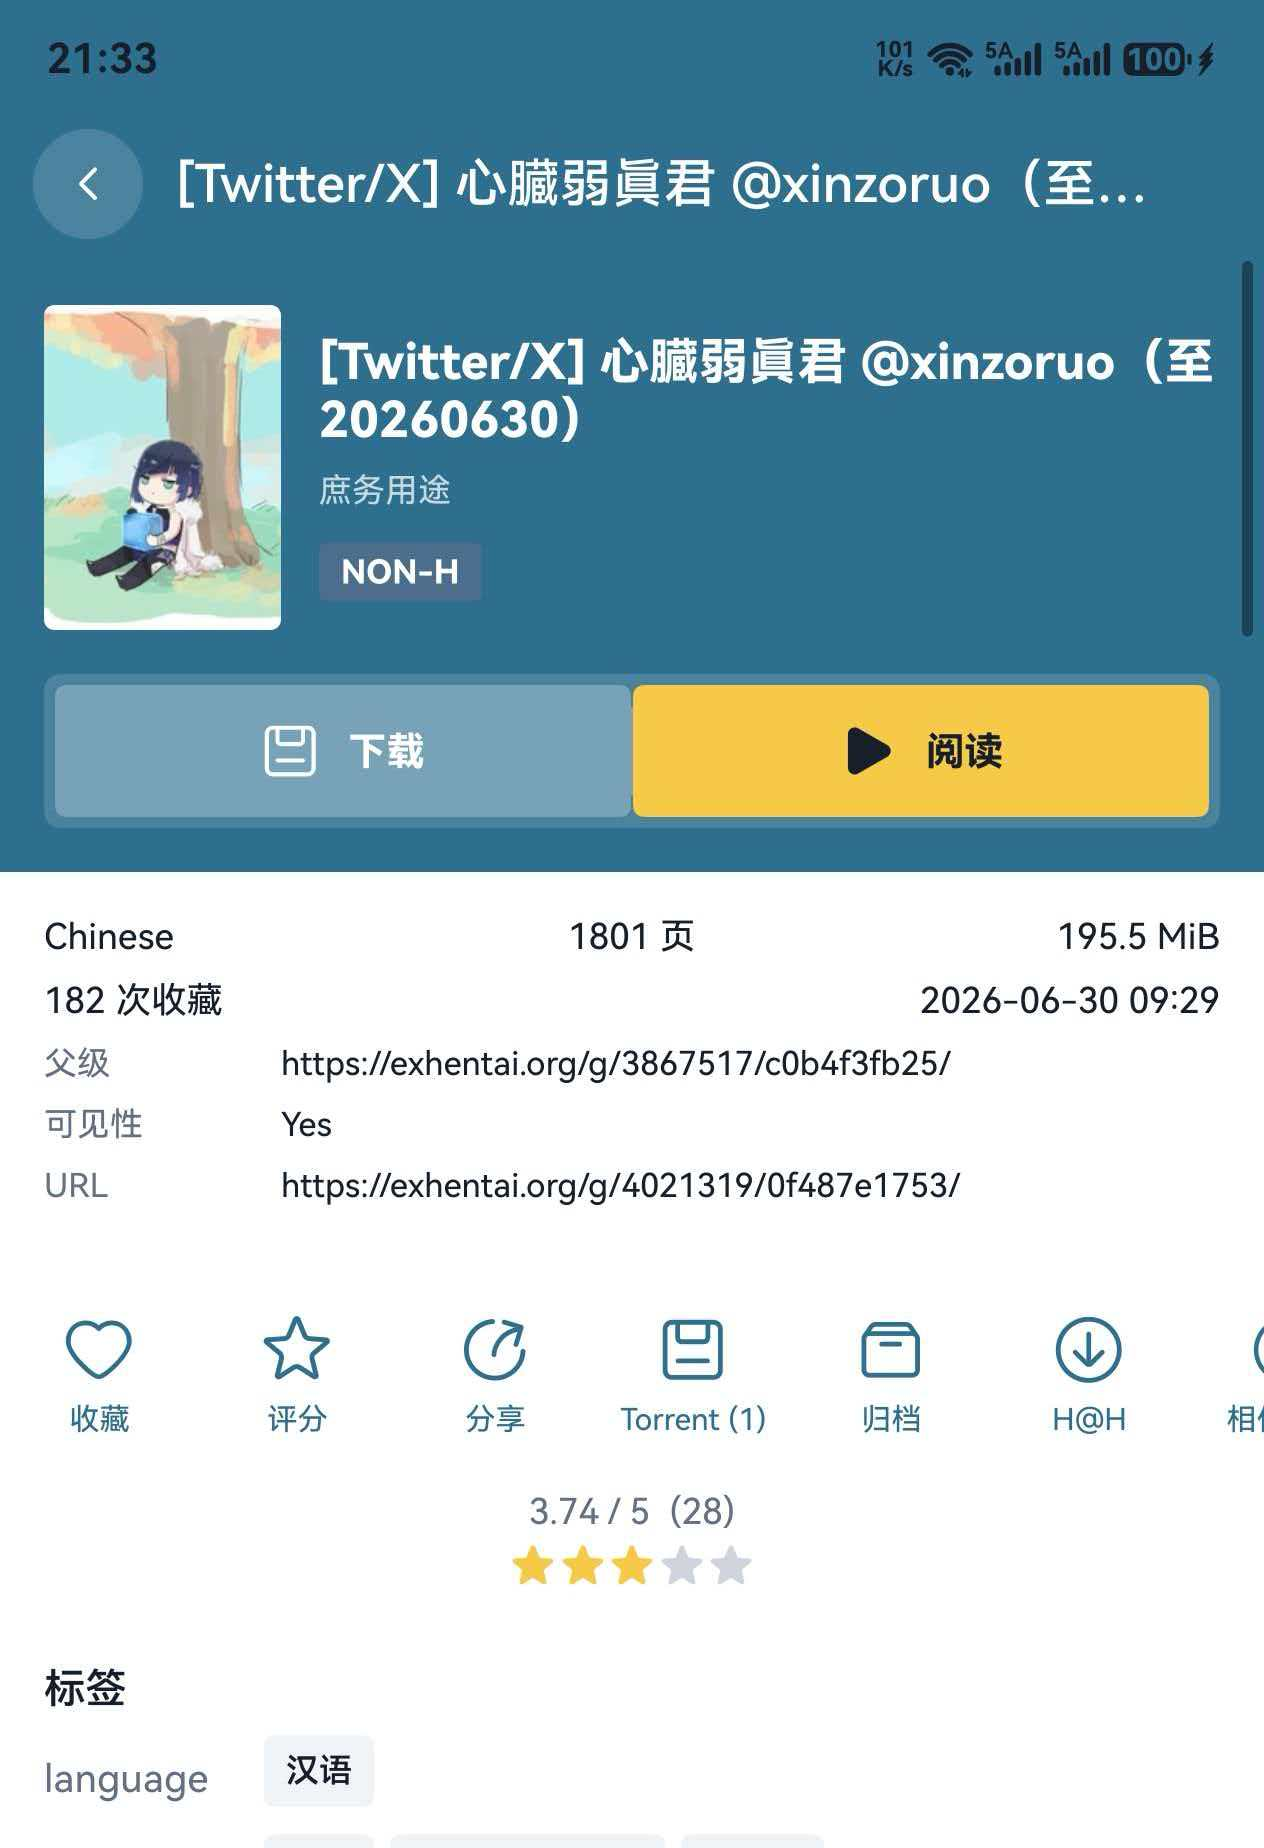
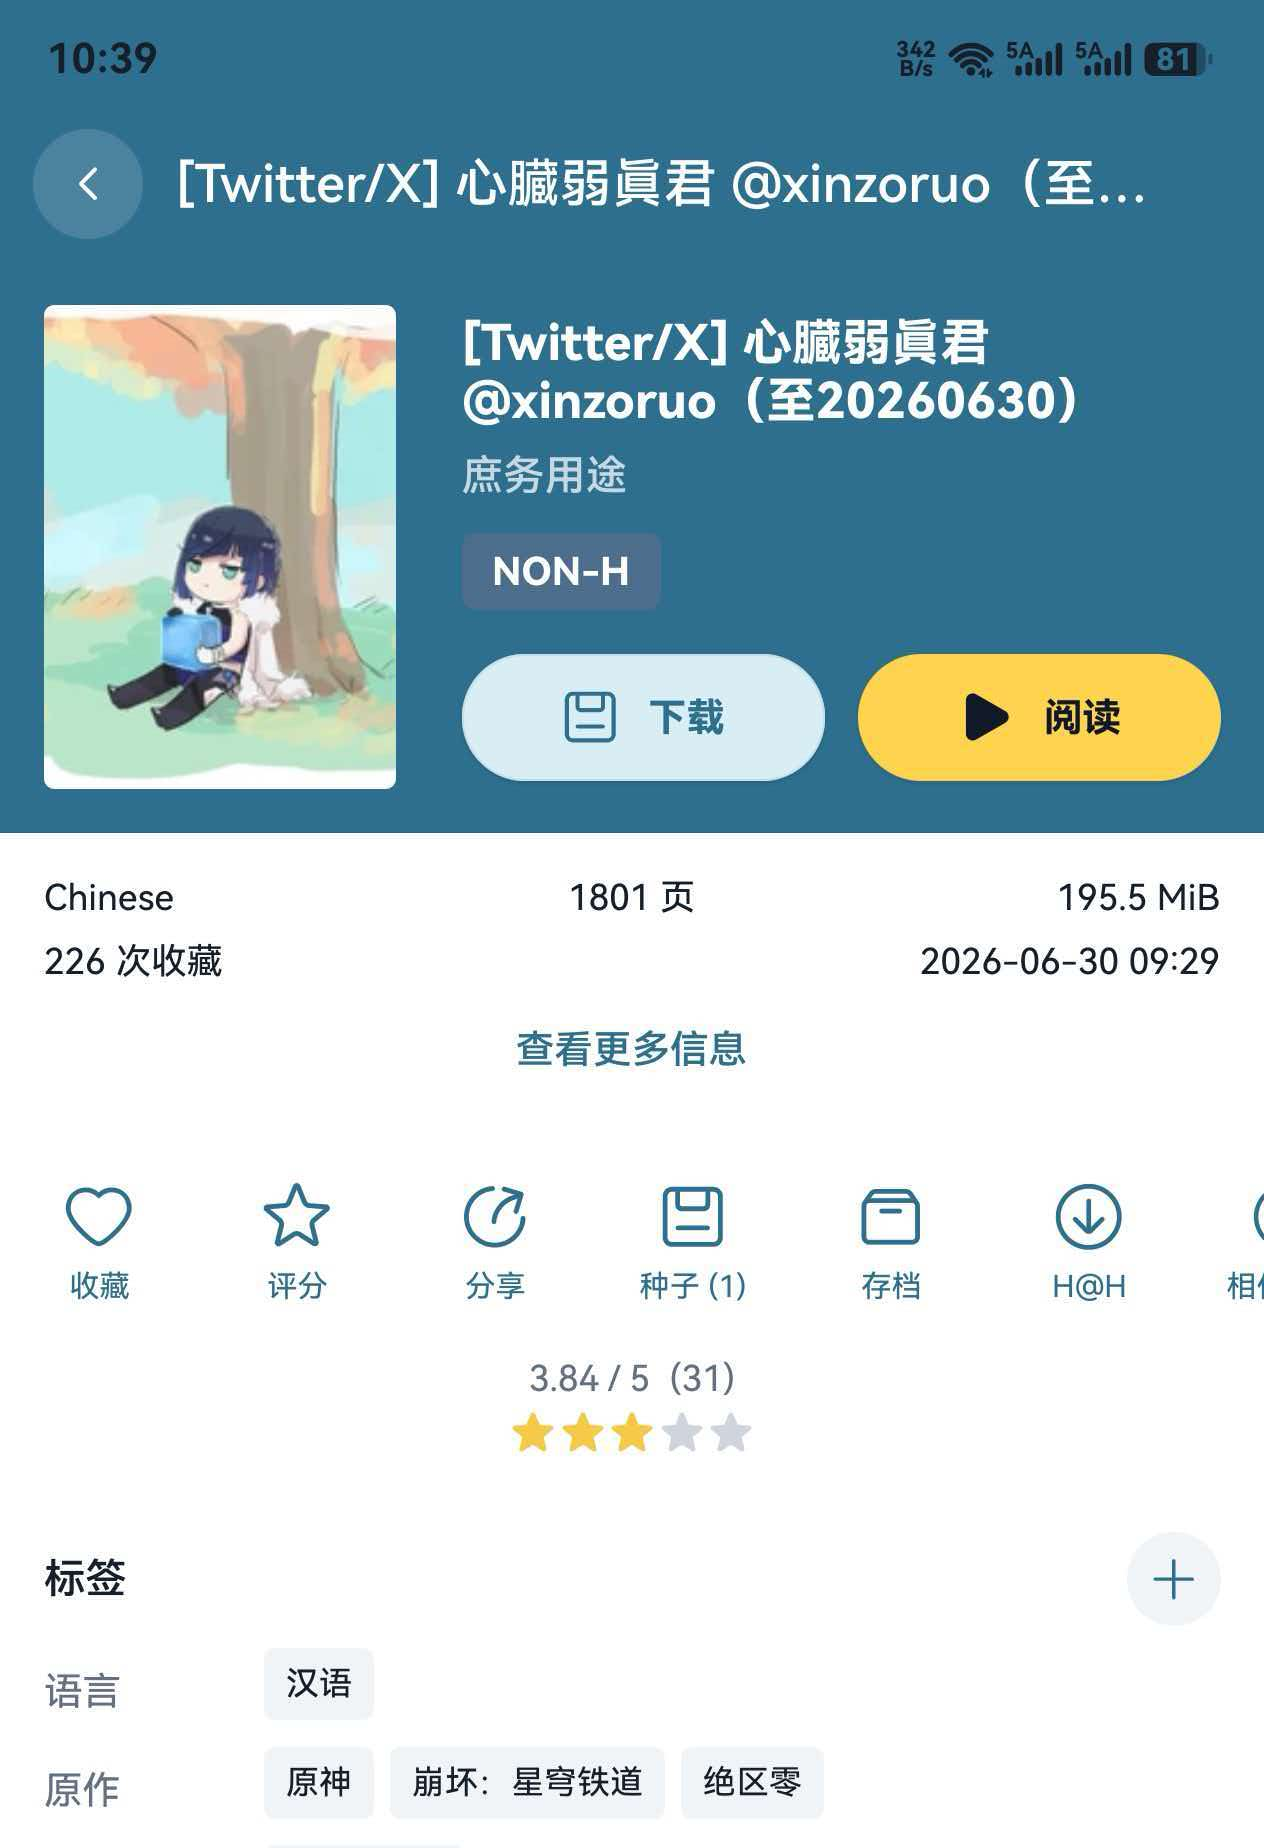
发布 0.5.2 并完善项目说明

diff --git a/README.md b/README.md
@@ -4,7 +4,7 @@
   <img src="entry/src/main/resources/base/media/app_icon.png" width="120" alt="EhViewer HarmonyOS app icon" />
 </p>
 
-这是 [Ehviewer_CN_SXJ](https://github.com/xiaojieonly/Ehviewer_CN_SXJ) 的 HarmonyOS 移植版本，目标是在鸿蒙设备上使用接近原应用的浏览、搜索、阅读、下载和设置体验。目前仍在快速迭代中，欢迎通过 Issue 反馈问题、日志和复现步骤，也欢迎提新功能需求。
+这是 [Ehviewer_CN_SXJ](https://github.com/xiaojieonly/Ehviewer_CN_SXJ) 的 HarmonyOS 移植版本，目标是在鸿蒙设备上提供接近原应用的浏览、搜索、阅读、下载和设置体验。欢迎通过 Issue 反馈问题、日志和复现步骤，也欢迎提出新功能需求。
 
 ## 界面预览
 
@@ -36,10 +36,12 @@
   <tr>
     <td><img src="docs/images/reader-settings.jpg" alt="阅读器设置" width="220" /></td>
     <td><img src="docs/images/gallery-detail-tag-vote.jpg" alt="标签编辑与投票" width="220" /></td>
+    <td><img src="docs/images/split-pane.jpg" alt="宽屏分栏模式" width="440" /></td>
   </tr>
   <tr>
     <td align="center">阅读器设置</td>
     <td align="center">标签编辑与投票</td>
+    <td align="center">宽屏分栏模式</td>
   </tr>
 </table>
 
@@ -48,9 +50,9 @@
 请在 [GitHub Releases](https://github.com/suibianqwe/Ehviewer_OHOS/releases) 中下载最新的 `.hap` 安装包。  
 推荐使用 [小白调试助手](https://github.com/likuai2010/auto-installer) 安装。
 
-当前版本：`0.5.1`
+当前版本：`0.5.2`
 
-最新安装包：[`EhViewer_OHOS_0.5.1.hap`](https://github.com/suibianqwe/Ehviewer_OHOS/releases/download/v0.5.1/EhViewer_OHOS_0.5.1.hap)
+最新安装包：[`EhViewer_OHOS_0.5.2.hap`](https://github.com/suibianqwe/Ehviewer_OHOS/releases/download/v0.5.2/EhViewer_OHOS_0.5.2.hap)<br />
 发布包类型：未签名 HAP  
 目标API：`26.0.0`  
 兼容API：`6.0.0(20)`  
@@ -58,12 +60,12 @@ API 20 起可安装；低于 API 23 的设备会自动跳过 SNI 域名前置增
 
 ## 功能特色
 
-- 浏览：支持 E-Hentai/ExHentai、首页、订阅、热门、排行、云端收藏、本地收藏、历史和下载列表。
-- 搜索：支持关键词、多标签、上传者、高级筛选、搜索历史和图片相似/封面搜索。
-- 详情：统一详情页逻辑，支持预览图、评论、收藏、评分、Torrent、归档、H@H、相似画廊、封面搜索、标签编辑和标签投票。
-- 阅读：支持内嵌/独立阅读器、连续阅读、缩放、方向适配、进度控制和本地下载优先读取。
-- 下载：支持任务暂停/继续/删除、多线程下载、本地阅读、恢复本地下载和导出压缩包。
-- 设置：支持主题、语言、启动页、过滤规则、代理/Hosts/域名前置、DoH、隐私防护和身份验证。
+- 浏览：支持 E-Hentai/ExHentai、首页、订阅、热门、排行、云端收藏、本地收藏、历史和下载列表，并可在平板、折叠屏和电脑端使用可拖动分割线的宽屏分栏模式。
+- 搜索：支持关键词、多标签、上传者、高级筛选、搜索书签、搜索历史和图片相似/封面搜索；搜索详情可继续进入下一级搜索并保留各层页面状态。
+- 详情：统一详情页逻辑，支持预览图、评论、收藏、评分、Torrent 磁力链接、存档、H@H、系统分享、相似画廊、封面搜索、标签编辑和标签投票。
+- 阅读：支持内嵌/独立阅读器、连续阅读、缩放、方向适配、进度控制和本地下载优先读取，宽屏状态下始终保持独立全屏。
+- 下载：支持任务暂停/继续/删除、多线程下载、本地阅读、通知栏进度与速度、隐私通知、恢复下载项和导出压缩包；可识别存档、应用导出包及外来画廊 ZIP 并重建元数据。
+- 设置：支持主题、语言、启动页、下载目录、过滤规则、代理/Hosts/域名前置、DoH、站点限制显示、隐私防护和身份验证。
 
 ## 应用数据迁移
 
@@ -83,11 +85,20 @@ API 20 起可安装；低于 API 23 的设备会自动跳过 SNI 域名前置增
 </table>
 
 1. 在文件管理器中找到原安卓应用下载目录，一般为 `我的手机 > 兼容应用数据 > EhViewer > download`，里面每个漫画是一个独立文件夹。
-2. 将需要迁移的漫画文件夹移动或复制到鸿蒙可访问的 `我的手机 > Download > EhViewer > EhViewer` 文件夹中。
+2. 将需要迁移的漫画文件夹移动或复制到鸿蒙可访问的 `我的手机 > Download > EhViewer > EhViewer` 文件夹中；未加密的画廊 ZIP 也可直接放入公共 `Download` 目录等待识别。
 3. 打开 EhViewer OHOS，进入 `设置` -> `下载`，点击 `恢复下载项`。
-4. 应用会扫描下载文件夹、迁移到应用文件目录，并重建下载队列和漫画元数据。重复漫画会尽量保留文件更完整、体积更大的版本。
+4. 应用会扫描下载画廊及公共目录中的压缩包，识别存档文件名或内部目录结构，解压到画廊保存路径并重建下载队列和漫画元数据。重复画廊会尽量保留文件更完整、体积更大的版本。
 
 如果部分漫画缺少元数据，应用会尝试联网抓取详情信息。
+
+## 0.5.2 重点变化
+
+- 搜索结果详情支持连续进入下一级标签或上传者搜索，返回时逐层恢复搜索条件和详情状态。
+- 恢复下载项抓取元数据时优先使用当前站点，登录状态下可从 E-Hentai 回退到 ExHentai。
+- 修复 E-Hentai 站点无法加载收藏画廊的问题。
+- 修复网络请求超时与响应结束同时发生时可能触发的重复销毁崩溃。
+- 修复多列画廊列表首个卡片位置留空、顶部间距不一致的问题。
+- 修复分栏多层连续返回后焦点丢失，以及单次系统返回同时改变左右栏页面的问题。
 
 ## 0.5.1 重点变化
 